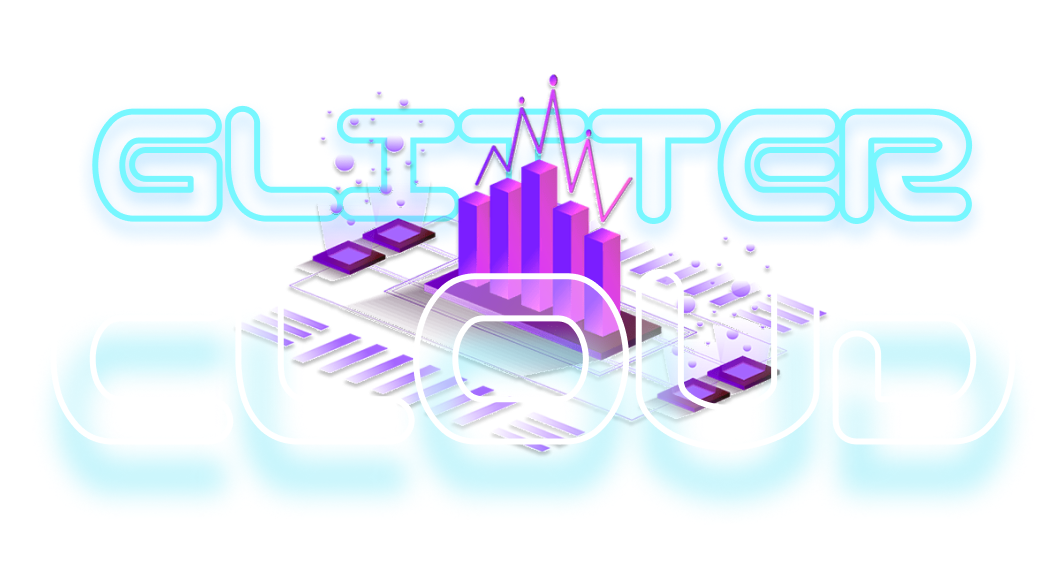
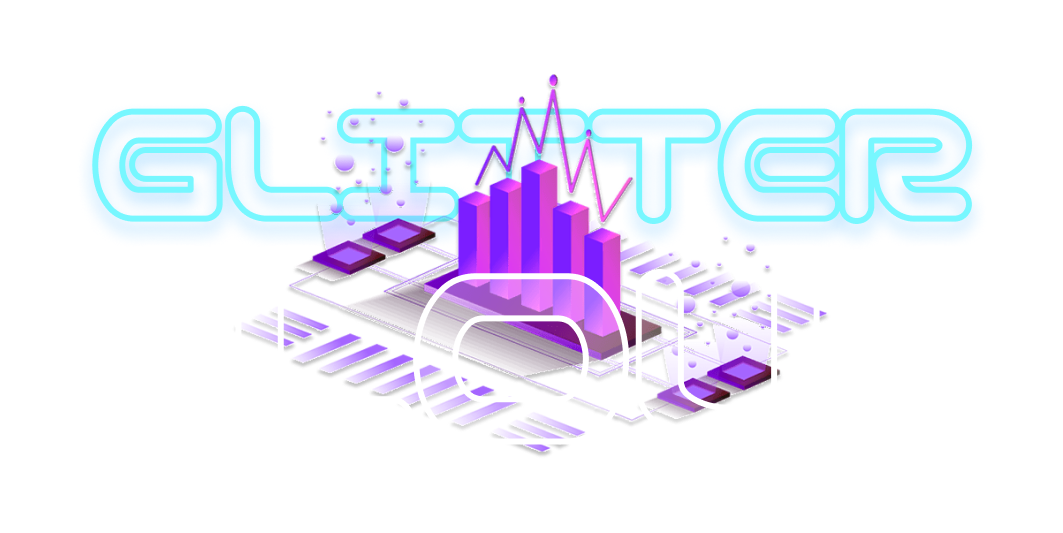
test animation

Changed region(s): [[0.031, 0.1201, 0.9624, 0.8705]]

diff --git a/src/App.jsx b/src/App.jsx
@@ -1,22 +1,24 @@
 import { useState } from "react"
 import "./App.css"
-import { Footer, Header } from "./components"
+import { Footer, Header, Reveal, } from "./components"
 
 export const Banner = () => {
   return (
     <section className="bgBanner flex justify-center items-center  flex-col pb-[10%] ">
-      <img
-        src="/images/Group 12.png"
-        alt=""
-      />
-      <div className="flex flex-col justify-center items-center">
-        <h2 className="text-[38px] font-medium ">Comprehensive Web3 GTM Solutions</h2>
-        <input
-          className="text-[20px] rounded-[10px] glass py-[25px] pl-9 text-[#fff] w-[70%] "
-          placeholder="Enter Your Email..."
-          type="text"
+      <Reveal>
+        <img
+          src="/images/Group 12.png"
+          alt=""
         />
-      </div>
+        <div className="flex flex-col justify-center items-center">
+          <h2 className="text-[38px] font-medium ">Comprehensive Web3 GTM Solutions</h2>
+          <input
+            className="text-[20px] rounded-[10px] glass py-[25px] pl-9 text-[#fff] w-[60%] "
+            placeholder="Enter Your Email..."
+            type="text"
+          />
+        </div>
+      </Reveal>
     </section>
   )
 }

diff --git a/src/components/Reveal.jsx b/src/components/Reveal.jsx
@@ -1,0 +1,30 @@
+import React from "react"
+import { motion } from "framer-motion"
+const Reveal = ({ children }) => {
+    return (
+        <div>
+            <motion.div
+                variants={{
+                    hidden: {
+                        opacity: 0,
+                        y: 100,
+                    },
+                    visible: {
+                        opacity: 1,
+                        y: 0,
+                    },
+                }}
+                initial="hidden"
+                animate="visible"
+                transition={{
+                    duration: 0.7,
+                    // delay: 0.2,
+                }}
+            >
+                {children}
+            </motion.div>
+        </div>
+    )
+}
+
+export default Reveal

diff --git a/tailwind.config.js b/tailwind.config.js
@@ -18,9 +18,6 @@ export default {
         fontFamily: {
             oxanium: ["Oxanium"],
         },
-        test: {
-            padding: "20px",
-        },
         screens: {
             xs: { min: "200px", max: "480px" },
             sm: { min: "481px", max: "576px" },

diff --git a/src/components/index.js b/src/components/index.js
@@ -1,2 +1,3 @@
 export { default as Header } from "./Header"
 export { default as Footer } from "./Footer"
+export { default as Reveal } from "./Reveal"
